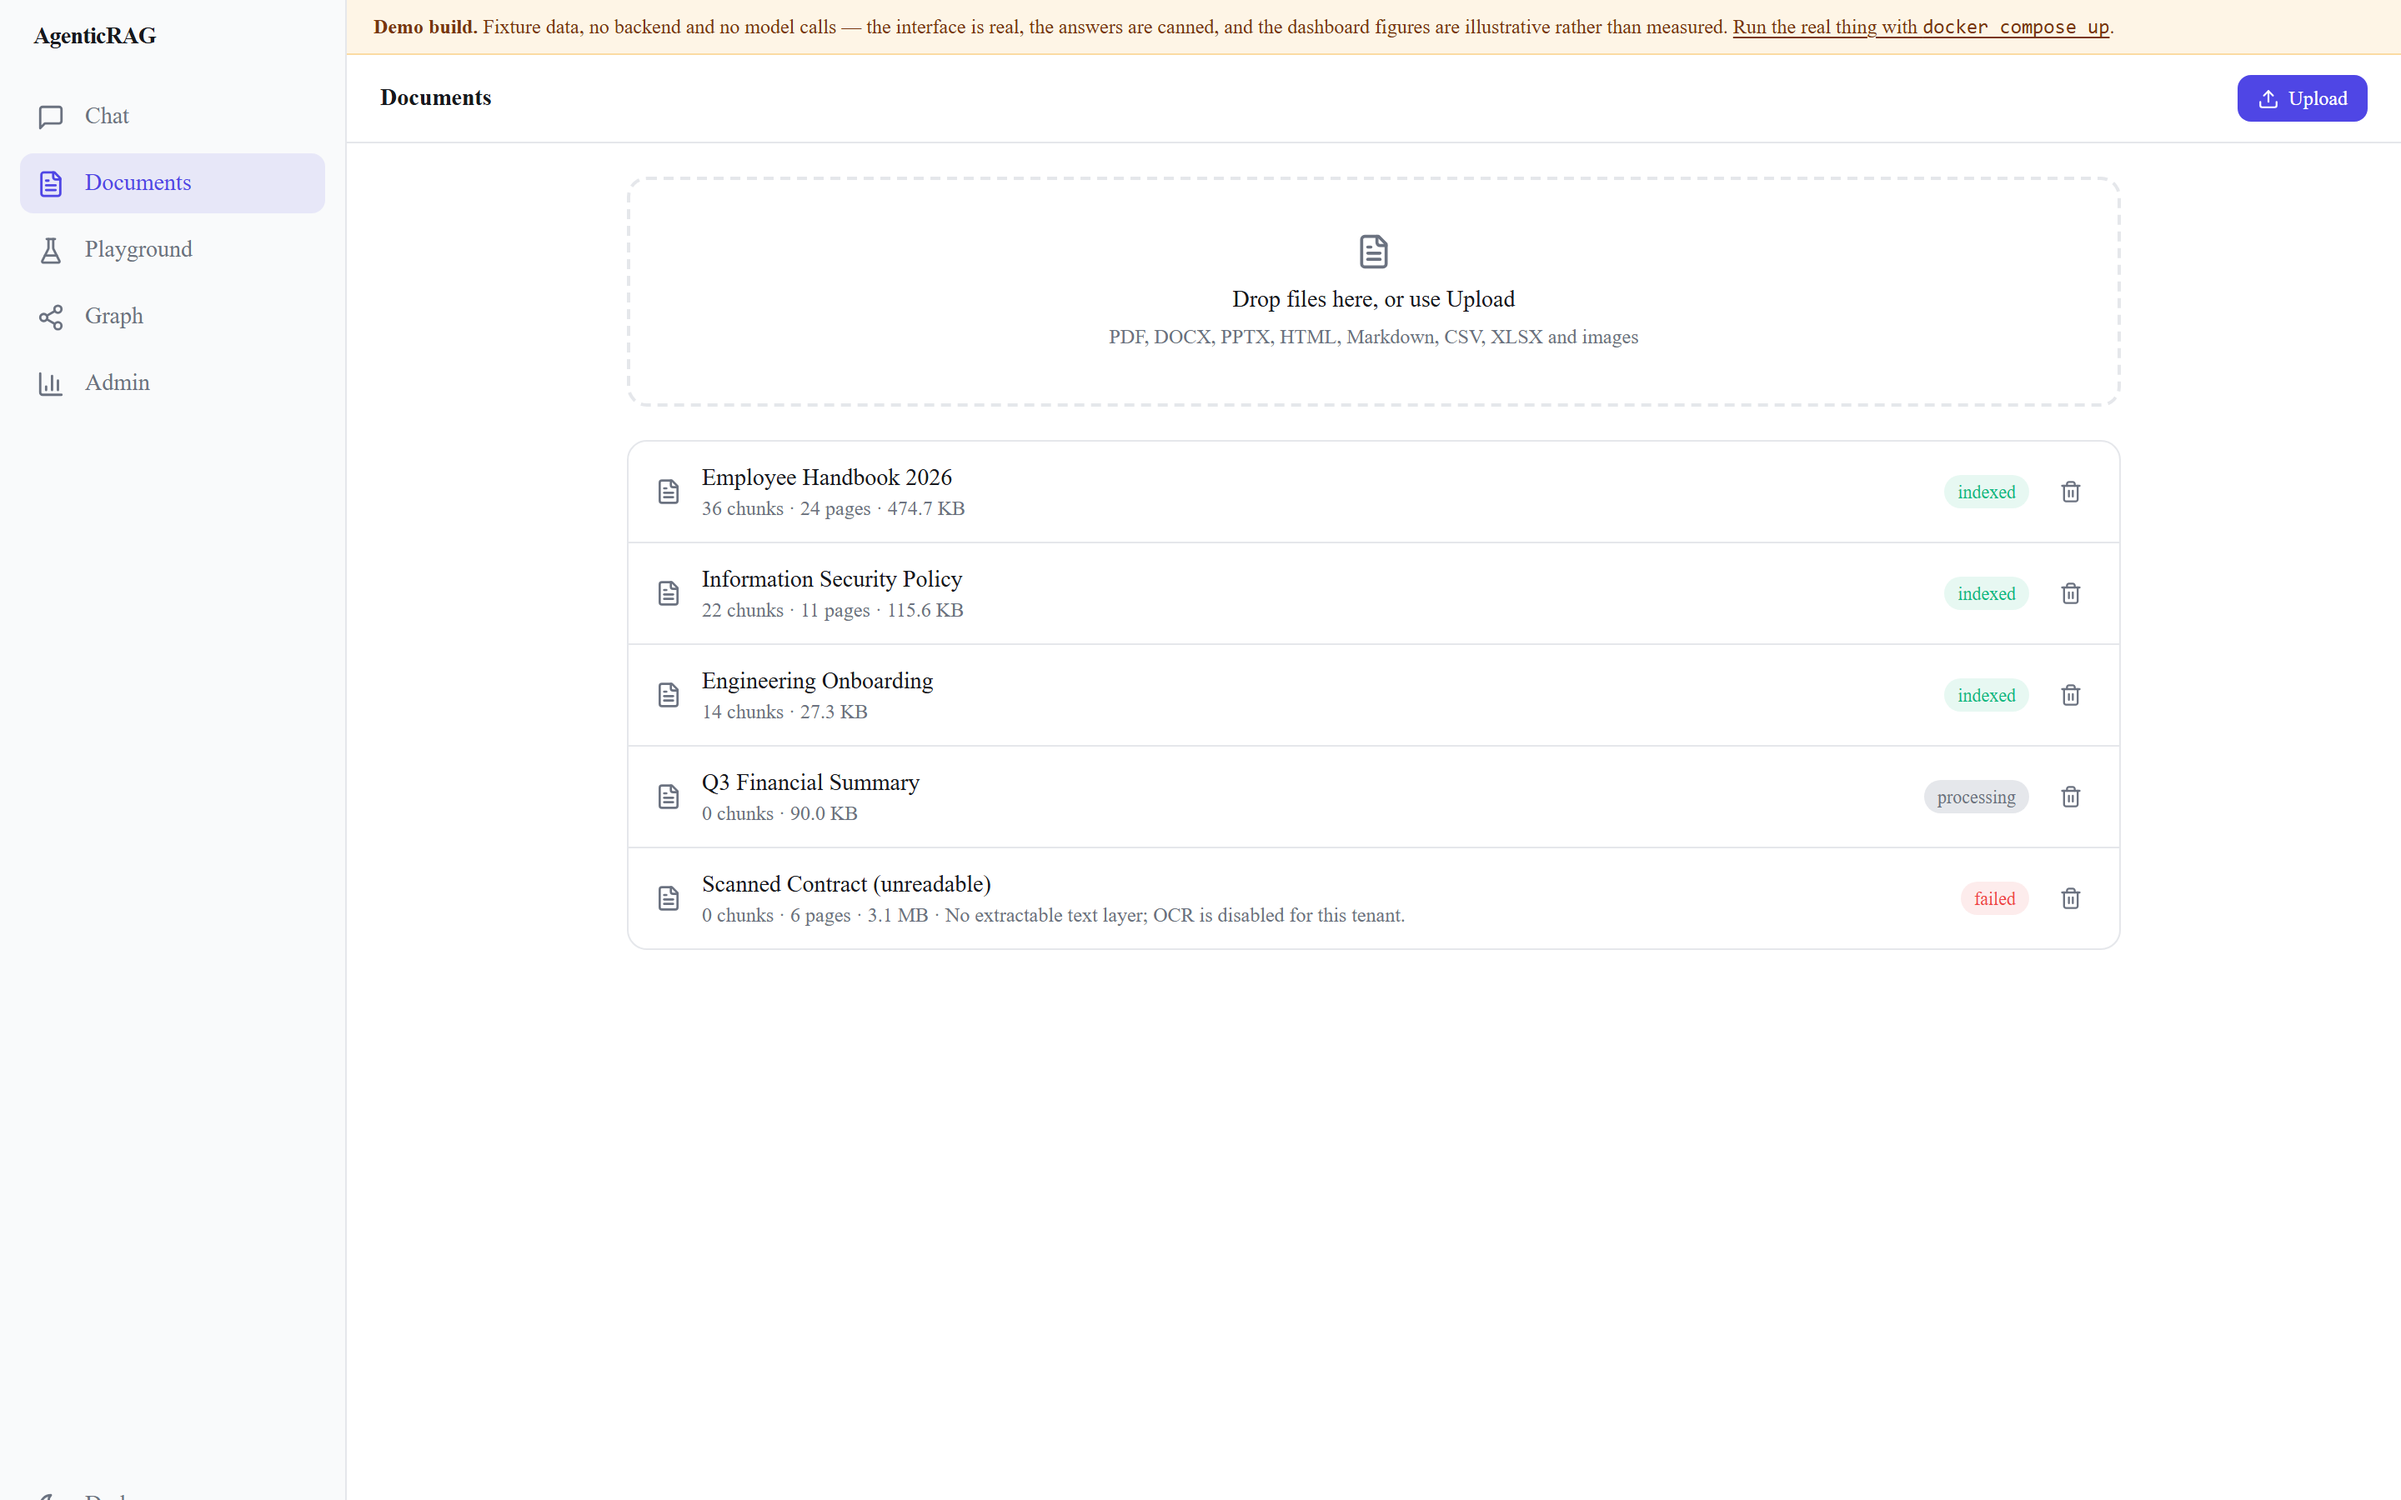
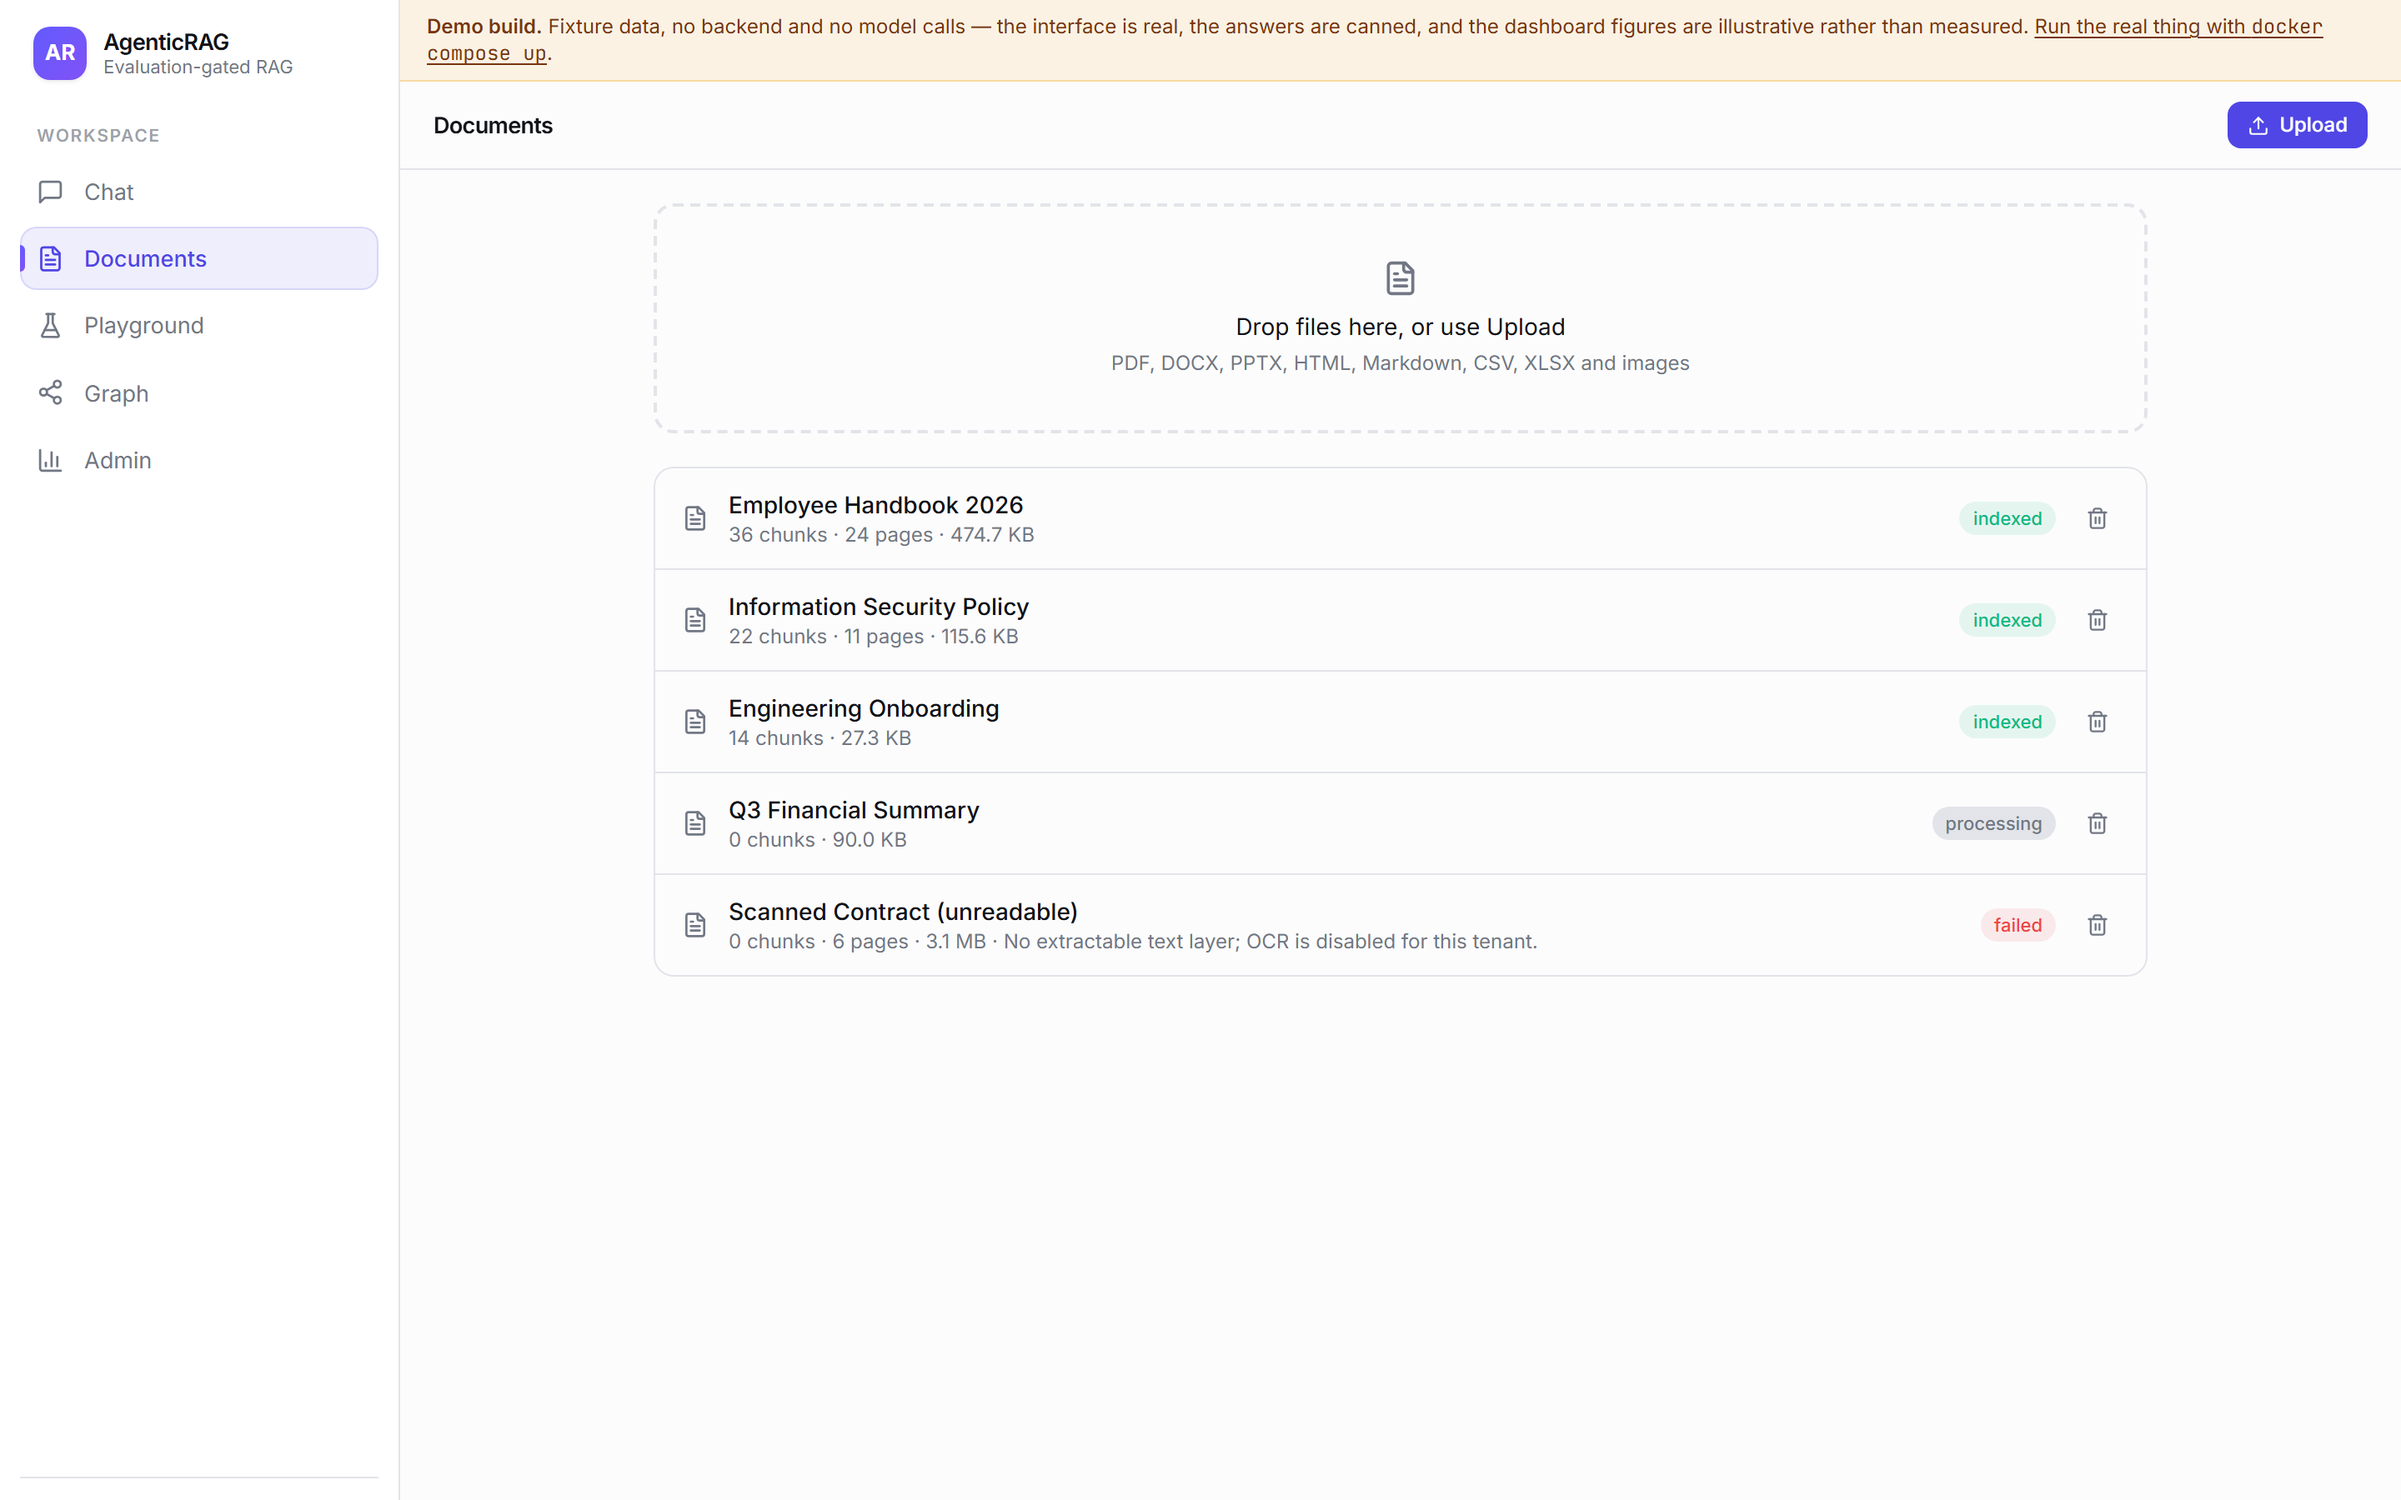
docs: recapture the screenshots against the restyled interface
Adds the chat surface as the README's lead image, and replaces all eleven
existing shots.

Four of the previous captures were taken mid-stream, showing a spinner and an
empty answer where the answer was supposed to be. The capture script was
exiting on a quiet-period check, and the stream pauses between reasoning steps
— so the pause read as completion. It now waits for the status pill to return
to Ready and for a phrase the fixture is known to produce, which also proves the
right fixture answered.

diff --git a/README.md b/README.md
@@ -45,6 +45,8 @@ no provider key means a hashing embedder and a clear error on generation — and
 
 ## What it looks like
 
+![The chat surface](docs/screenshots/00-home.png)
+
 These are captured from the demo build described in
 [docs/DEPLOYING-THE-DEMO.md](docs/DEPLOYING-THE-DEMO.md) — the real interface on
 fixture data, which is why each one carries a banner saying so. The banner is
